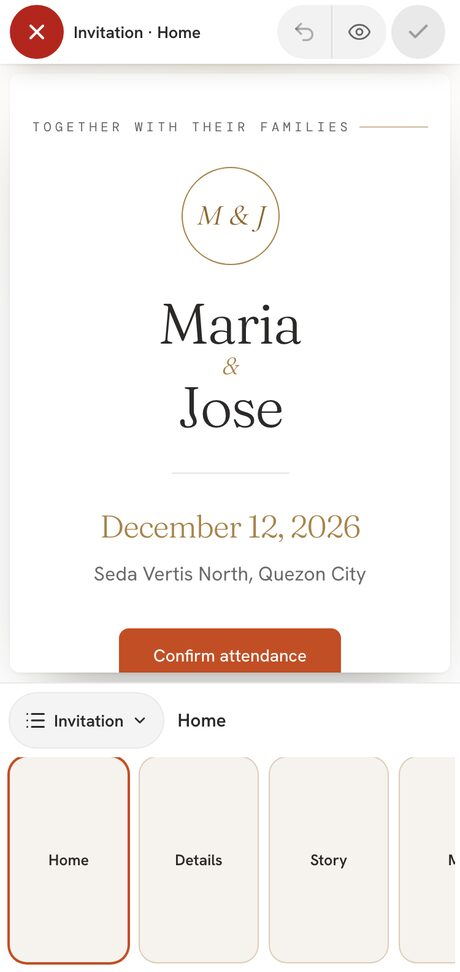
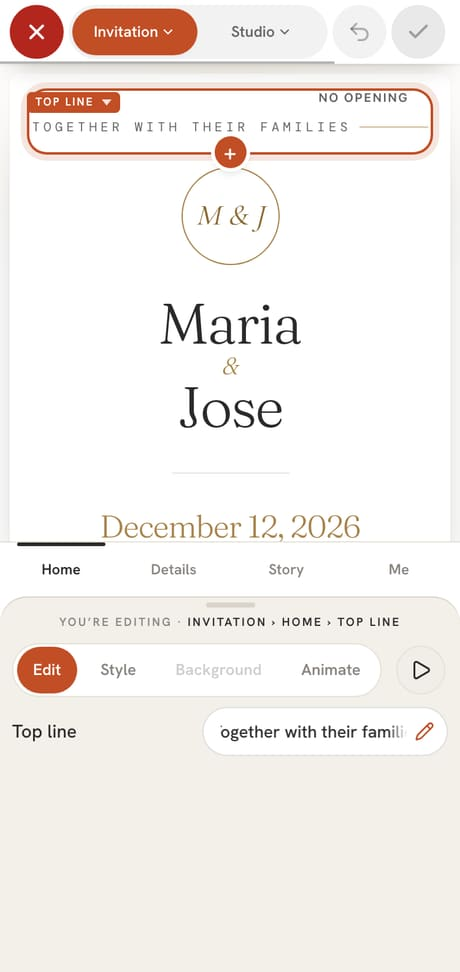
feat(features): real 375 px pictures for eight more /features pages + event-hub retake
Lab captures (no database, Maria & Jose fixtures) for logo-maker, mood-board,
dress-code, e-gifts, prints and papic; event-hub retaken on today's Maker plus
a Story frame with the love story's own photos; 3d-plan from the live public
demo (sample room); real-stories from the in-code sample editorial.

diff --git a/apps/web/lib/feature-pages/invite.ts b/apps/web/lib/feature-pages/invite.ts
@@ -96,8 +96,15 @@ export const INVITE_FEATURES: readonly FeaturePageEntry[] = [
       {
         src: '/feature-shots/event-hub-0.jpg',
         alt: {
-          en: 'The Event Hub Maker on a phone: the Invitation stage’s Home with the couple’s names and date, and the parts of the page below',
-          tl: 'Ang Event Hub Maker sa telepono: ang Home ng Invitation stage na may pangalan at petsa ng magkasintahan, at ang mga bahagi ng page sa ibaba',
+          en: 'The Event Hub Maker on a phone: the Invitation stage’s Home with the couple’s names and date, Home · Details · Story · Me, and Edit, Style, Background and Animate for the part you tapped',
+          tl: 'Ang Event Hub Maker sa telepono: ang Home ng Invitation stage na may pangalan at petsa ng magkasintahan, Home · Details · Story · Me, at Edit, Style, Background at Animate para sa bahaging pinindot mo',
+        },
+      },
+      {
+        src: '/feature-shots/event-hub-1.jpg',
+        alt: {
+          en: 'The Event Hub Maker on a phone: the Invitation stage’s Story, with the love story’s own photos in its chapter',
+          tl: 'Ang Event Hub Maker sa telepono: ang Story ng Invitation stage, kasama ang sariling mga litrato ng love story sa kabanata nito',
         },
       },
     ],
@@ -183,7 +190,15 @@ export const INVITE_FEATURES: readonly FeaturePageEntry[] = [
       en: ['wedding dress code Philippines', 'entourage attire', 'call time for entourage', 'barong and filipiniana dress code'],
       tl: ['dress code ng kasal', 'kasuotan ng entourage', 'call time ng entourage'],
     },
-    shots: [],
+    shots: [
+      {
+        src: '/feature-shots/dress-code-0.jpg',
+        alt: {
+          en: 'The dress code on a phone, in Mood Board & Dress Code › Attire: the bride in a filipiniana and the groom in a barong tagalog, each with their colours, what to wear and a call time',
+          tl: 'Ang dress code sa telepono, sa Mood Board & Dress Code › Attire: ang bride na naka-filipiniana at ang groom na naka-barong tagalog, bawat isa may kulay, isusuot at call time',
+        },
+      },
+    ],
     price: { kind: 'free' },
     evidence: ['lib/role-dress-code.ts', 'app/[slug]/_components/dress-code-widget.tsx', 'lib/guest-checklist.ts', 'lib/print-layout.ts'],
   },
@@ -338,7 +353,15 @@ export const INVITE_FEATURES: readonly FeaturePageEntry[] = [
       en: ['wedding cash gift GCash', 'wedding wish list Philippines', 'online gift registry', 'e-gift for debut'],
       tl: ['regalo sa kasal sa GCash', 'wish list ng kasal', 'e-gift'],
     },
-    shots: [],
+    shots: [
+      {
+        src: '/feature-shots/e-gifts-0.jpg',
+        alt: {
+          en: 'E-Gifts as a guest sees it on a phone: the wish list with how much has been sent toward each wish, one marked got, and the ways to give with a GCash number to copy',
+          tl: 'Ang E-Gifts na nakikita ng bisita sa telepono: ang wish list at kung magkano na ang naipadala para sa bawat wish, isang may markang got, at ang mga paraan ng pagbibigay na may GCash number na makokopya',
+        },
+      },
+    ],
     price: { kind: 'free' },
     evidence: ['lib/egift.ts', 'lib/egift-kinds.ts', 'lib/wish-list.ts', 'lib/gift-record.ts', 'app/[slug]/pabuya/page.tsx'],
   },
@@ -409,7 +432,15 @@ export const INVITE_FEATURES: readonly FeaturePageEntry[] = [
       en: ['printable wedding invitation', 'table signs and place cards', 'wedding invitation set Philippines', 'guest QR code cards'],
       tl: ['printable na imbitasyon', 'table signs at place cards', 'invitation set ng kasal'],
     },
-    shots: [],
+    shots: [
+      {
+        src: '/feature-shots/prints-0.jpg',
+        alt: {
+          en: 'Prints on a phone: Print settings, then the invitation set — invitation, entourage, finer details and menu — each with its size and its own Download',
+          tl: 'Ang Prints sa telepono: Print settings, at ang invitation set — invitation, entourage, finer details at menu — bawat isa may laki at sariling Download',
+        },
+      },
+    ],
     price: { kind: 'free-plus', catalogue: 'retail', codes: ['COUPLE_WEBSITE_PRO'] },
     evidence: ['lib/print-pieces.ts', 'lib/free-prints.ts', 'lib/studio-prints-six.ts', 'app/api/hub-print/[piece]/route.ts'],
   },
@@ -460,7 +491,15 @@ export const INVITE_FEATURES: readonly FeaturePageEntry[] = [
       en: ['wedding monogram maker', 'animated wedding logo', 'wedding logo Philippines'],
       tl: ['monogram ng kasal', 'animated na logo ng kasal'],
     },
-    shots: [],
+    shots: [
+      {
+        src: '/feature-shots/logo-maker-0.jpg',
+        alt: {
+          en: 'The Logo Maker on a phone: the couple’s initials as a text layer, Add layer beside it, and Character, Style and Animate with the words, font and size below',
+          tl: 'Ang Logo Maker sa telepono: ang initials ng magkasintahan bilang text layer, ang Add layer sa tabi nito, at ang Character, Style at Animate kasama ang salita, font at laki sa ibaba',
+        },
+      },
+    ],
     price: { kind: 'free-plus', catalogue: 'retail', codes: ['ANIMATED_MONOGRAM'] },
     moreHref: '/palogo',
     evidence: ['app/(shell)/palogo/page.tsx', 'lib/monogram.ts', 'lib/logo-layers.ts', 'app/dashboard/[eventId]/monogram/page.tsx'],

diff --git a/apps/web/lib/feature-pages/day-memories.ts b/apps/web/lib/feature-pages/day-memories.ts
@@ -80,7 +80,15 @@ export const DAY_MEMORIES_FEATURES: readonly FeaturePageEntry[] = [
       en: ['guest photo sharing wedding', 'QR code photo sharing', 'guests take photos no app', 'event photo app Philippines'],
       tl: ['photo sharing ng bisita', 'QR code litrato', 'litrato ng bisita sa event'],
     },
-    shots: [],
+    shots: [
+      {
+        src: '/feature-shots/papic-0.jpg',
+        alt: {
+          en: 'A guest’s own Papic photos on the Event Hub on a phone: Your shots, with Camera and Gallery in the menu below',
+          tl: 'Ang sariling mga litrato ng bisita sa Papic sa Event Hub sa telepono: Your shots, kasama ang Camera at Gallery sa menu sa ibaba',
+        },
+      },
+    ],
     price: {
       kind: 'free-plus',
       catalogue: 'retail',
@@ -297,7 +305,15 @@ export const DAY_MEMORIES_FEATURES: readonly FeaturePageEntry[] = [
       en: ['real Filipino wedding stories', 'event inspiration Philippines', 'debut stories'],
       tl: ['totoong kuwento ng kasal', 'inspirasyon sa event'],
     },
-    shots: [],
+    shots: [
+      {
+        src: '/feature-shots/real-stories-0.jpg',
+        alt: {
+          en: 'A Stories editorial on a phone: a sample wedding story, clearly marked as a sample, with Relive it, share links and the cover photo',
+          tl: 'Isang editorial ng Stories sa telepono: isang sample na kuwento ng kasal, malinaw na may markang sample, kasama ang Relive it, share links at ang cover photo',
+        },
+      },
+    ],
     price: { kind: 'free' },
     moreHref: '/realstories',
     evidence: ['app/(shell)/realstories/page.tsx'],

diff --git a/apps/web/lib/feature-pages/plan-b.ts b/apps/web/lib/feature-pages/plan-b.ts
@@ -68,7 +68,15 @@ export const PLAN_B_FEATURES: readonly FeaturePageEntry[] = [
       en: ['event mood board', 'wedding color palette', 'motif and colors', 'entourage colors', 'mood board maker'],
       tl: ['mood board ng event', 'kulay at motif', 'kulay ng entourage'],
     },
-    shots: [],
+    shots: [
+      {
+        src: '/feature-shots/mood-board-0.jpg',
+        alt: {
+          en: 'The Mood Board on a phone: Palette, Attire, Inspiration and Do’s & Don’ts, your five main colours with what each one colours, and the room’s colours for your stylist',
+          tl: 'Ang Mood Board sa telepono: Palette, Attire, Inspiration at Do’s & Don’ts, ang limang pangunahing kulay mo at kung ano ang kinukulayan ng bawat isa, at ang kulay ng kuwarto para sa stylist mo',
+        },
+      },
+    ],
     price: { kind: 'free-plus', catalogue: 'retail', codes: ['MOODBOARD_RENDER_PACK'] },
     moreHref: '/mood-board',
     evidence: ['app/(shell)/mood-board/page.tsx', 'lib/mood-board.ts', 'lib/moodboard-printable.ts', 'lib/moodboard-render-credits.ts', 'lib/room-palette.ts'],

diff --git a/apps/web/lib/feature-pages/plan-a.ts b/apps/web/lib/feature-pages/plan-a.ts
@@ -328,7 +328,15 @@ export const PLAN_A_FEATURES: readonly FeaturePageEntry[] = [
       en: ['3D venue layout', 'virtual reception layout', 'wedding 3D seating plan', 'walkthrough your venue'],
       tl: ['3D na layout ng venue', '3D seat plan', 'libreng 3D plan'],
     },
-    shots: [],
+    shots: [
+      {
+        src: '/feature-shots/3d-plan-0.jpg',
+        alt: {
+          en: 'The 3D Plan on a phone: a sample reception seen from above — round tables with seated guests, the stage and the dance floor — with Walk around and the role colours switched on',
+          tl: 'Ang 3D Plan sa telepono: isang sample na reception na tanaw mula sa itaas — mga bilog na table na may nakaupong bisita, ang stage at ang dance floor — kasama ang Walk around at nakabukas ang role colors',
+        },
+      },
+    ],
     price: { kind: 'free' },
     tryHref: '/pa3d/try',
     moreHref: '/pa3d',
